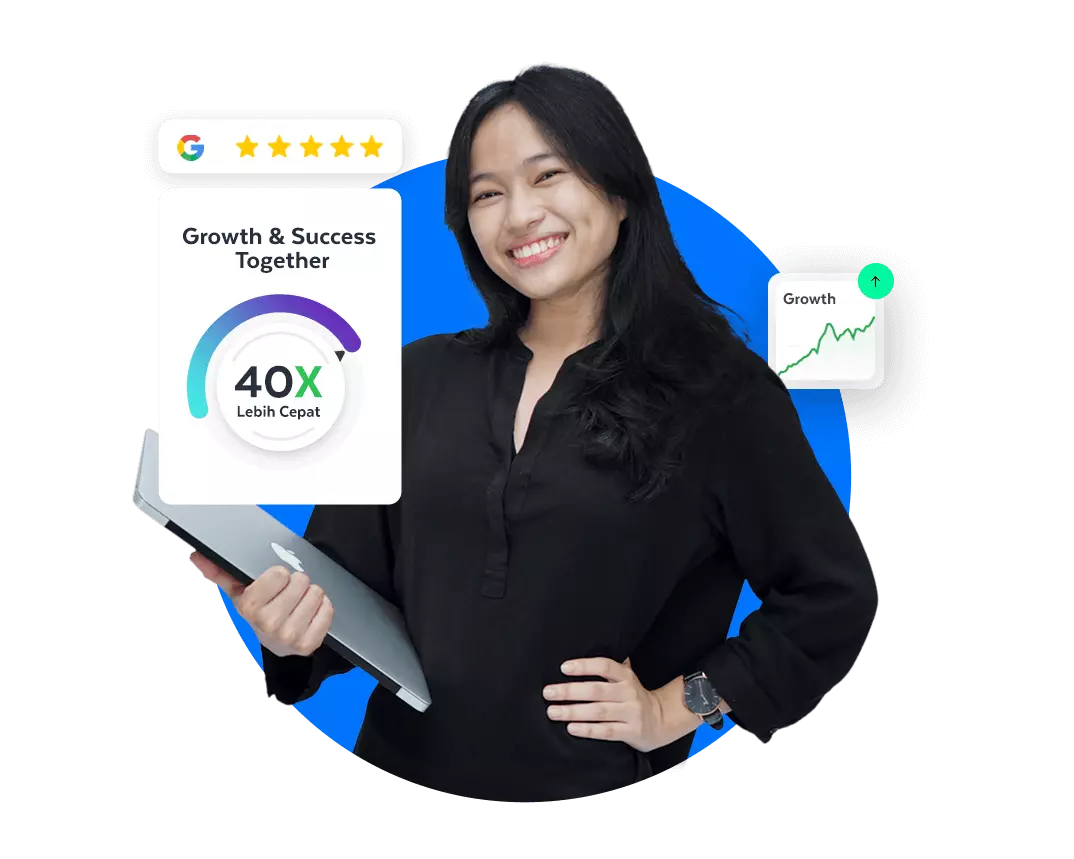
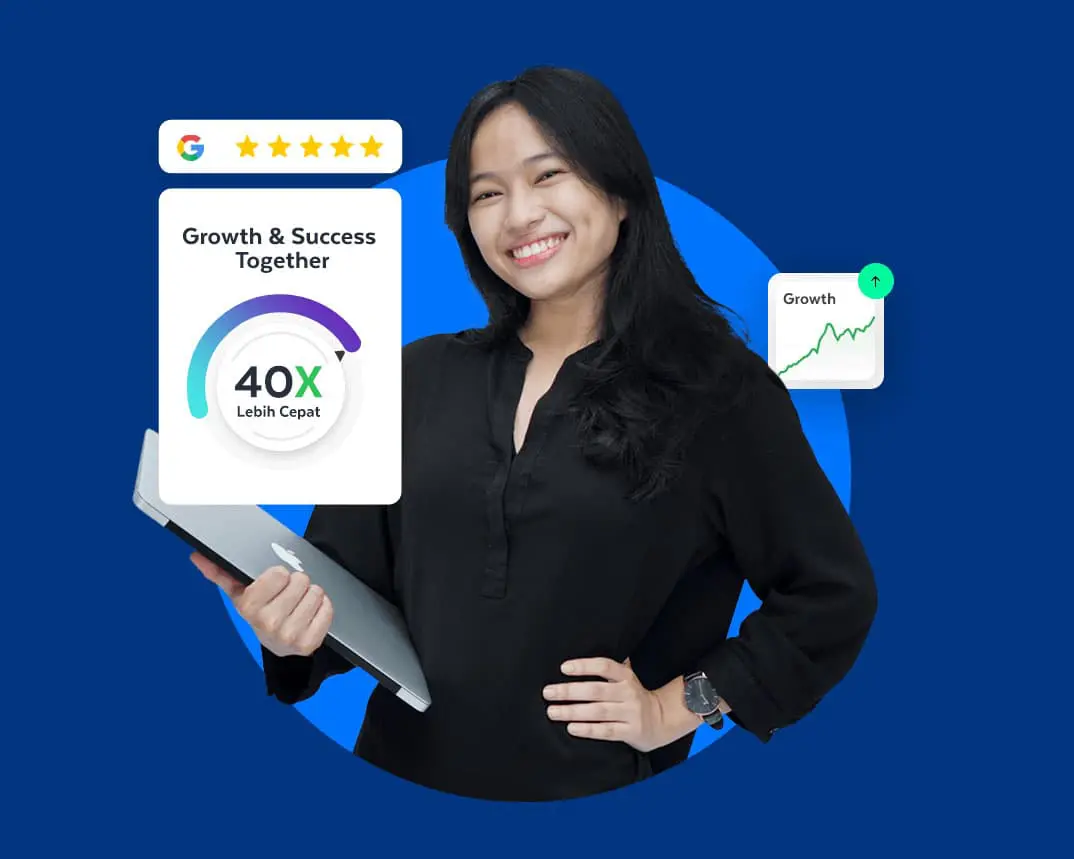
tambah webp

diff --git a/dev/index.html b/dev/index.html
@@ -578,14 +578,11 @@
 								</style>
 								<div class="">24</div>
 							</div>
-							<!-- <picture>
-							
-							<source srcset="assets/img/banner-juli-1-min.webp" type="image/webp">
-							<img src="assets/img/assets/img/banner-juli-1-min.png" alt="idwebhost-web-hosting-terbaik"
-								class="mx-auto d-flex img-fluid " width="1074" height="859" id="hero-image">
-						</picture> -->
-							<!-- perubahan gambar september 22 -->
-							<img src="assets/img/banner-juli-1-mini.jpg" alt="idwebhost-web-hosting-terbaik" class="mx-auto d-flex img-fluid" width="740" height="592" id="hero-image" />
+							<picture>
+								<source srcset="assets/img/banner-juli-1-min.webp" type="image/webp" />
+								<source srcset="assets/img/banner-juli-1-mini.jpg" type="image/jpeg">
+								<img src="assets/img/banner-juli-1-mini.jpg" alt="idwebhost-web-hosting-terbaik" class="mx-auto d-flex img-fluid" width="740" height="592" id="hero-image" />
+							</picture>
 						</div>
 					</div>
 				</div>
@@ -1519,7 +1516,7 @@
 								<h3 class="mb-2 font-weight-bold h6 position-relative to-btn">
 									Layanan Hosting
 									<!-- tambahan button di setiap dalam h3 pada footer -->
-									<button class="ml-auto btn-sm stretched-link btn d-sm-none has-plus"  data-toggle="collapse" aria-label="collapse" data-target="#exp-layanan-hosting" aria-expanded="false" aria-controls="exp-layanan-hosting"></button>
+									<button class="ml-auto btn-sm stretched-link btn d-sm-none has-plus" data-toggle="collapse" aria-label="collapse" data-target="#exp-layanan-hosting" aria-expanded="false" aria-controls="exp-layanan-hosting"></button>
 								</h3>
 								<!-- tambahan class collapse d-sm-block dan id sesuai button diatasnya -->
 								<ul class="list-unstyled lh-2 collapse d-sm-block" id="exp-layanan-hosting">
@@ -1537,7 +1534,7 @@
 								</ul>
 								<h3 class="mb-2 font-weight-bold h6 position-relative to-btn">
 									Kemitraan
-									<button class="ml-auto btn-sm stretched-link btn d-sm-none has-plus"  data-toggle="collapse" aria-label="collapse" data-target="#exp-kemitraan" aria-expanded="false" aria-controls="exp-kemitraan"></button>
+									<button class="ml-auto btn-sm stretched-link btn d-sm-none has-plus" data-toggle="collapse" aria-label="collapse" data-target="#exp-kemitraan" aria-expanded="false" aria-controls="exp-kemitraan"></button>
 								</h3>
 								<ul class="list-unstyled lh-2 collapse d-sm-block" id="exp-kemitraan">
 									<li><a href="afilliasi.html" class="text-muted">Program Afilliasi</a></li>
@@ -1546,7 +1543,7 @@
 							<div class="col-lg-3 col-md-3">
 								<h3 class="mb-2 font-weight-bold h6 position-relative to-btn">
 									Layanan Domain
-									<button class="ml-auto btn-sm stretched-link btn d-sm-none has-plus"  data-toggle="collapse" aria-label="collapse" data-target="#exp-layanan-domain" aria-expanded="false" aria-controls="exp-layanan-domain"></button>
+									<button class="ml-auto btn-sm stretched-link btn d-sm-none has-plus" data-toggle="collapse" aria-label="collapse" data-target="#exp-layanan-domain" aria-expanded="false" aria-controls="exp-layanan-domain"></button>
 								</h3>
 								<ul class="list-unstyled lh-2 collapse d-sm-block" id="exp-layanan-domain">
 									<li><a href=" domain-murah.html" class="text-muted">Domain Murah</a></li>
@@ -1556,7 +1553,7 @@
 								</ul>
 								<h3 class="mb-2 font-weight-bold h6 position-relative to-btn">
 									Informasi
-									<button class="ml-auto btn-sm stretched-link btn d-sm-none has-plus"  data-toggle="collapse" aria-label="collapse" data-target="#exp-informasi" aria-expanded="false" aria-controls="exp-informasi"></button>
+									<button class="ml-auto btn-sm stretched-link btn d-sm-none has-plus" data-toggle="collapse" aria-label="collapse" data-target="#exp-informasi" aria-expanded="false" aria-controls="exp-informasi"></button>
 								</h3>
 								<ul class="list-unstyled lh-2 collapse d-sm-block" id="exp-informasi">
 									<li><a href="tutorial.html" class="text-muted">Tutorial</a></li>
@@ -1572,7 +1569,7 @@
 							<div class="col-lg-2 col-md-3">
 								<h3 class="mb-2 font-weight-bold h6 position-relative to-btn">
 									Customer
-									<button class="ml-auto btn-sm stretched-link btn d-sm-none has-plus"  data-toggle="collapse" aria-label="collapse" data-target="#exp-customer"  aria-expanded="false" aria-controls="exp-customer"></button>
+									<button class="ml-auto btn-sm stretched-link btn d-sm-none has-plus" data-toggle="collapse" aria-label="collapse" data-target="#exp-customer" aria-expanded="false" aria-controls="exp-customer"></button>
 								</h3>
 								<ul class="list-unstyled lh-2 collapse d-sm-block" id="exp-customer">
 									<li><a href="https://member.idwebhost.com" class="text-muted">Login</a></li>
@@ -1584,7 +1581,7 @@
 								</ul>
 								<h3 class="mb-2 font-weight-bold h6 position-relative to-btn">
 									Company
-									<button class="ml-auto btn-sm stretched-link btn d-sm-none has-plus"  data-toggle="collapse"aria-label="collapse"  data-target="#exp-company"  aria-expanded="false" aria-controls="exp-company"></button>
+									<button class="ml-auto btn-sm stretched-link btn d-sm-none has-plus" data-toggle="collapse" aria-label="collapse" data-target="#exp-company" aria-expanded="false" aria-controls="exp-company"></button>
 								</h3>
 								<ul class="list-unstyled lh-2 collapse d-sm-block" id="exp-company">
 									<li><a href="review.html" class="text-muted">Review Pelanggan</a></li>
@@ -1660,83 +1657,52 @@
 				</section>
 			</div>
 		</footer>
-		
-<!-- backup popup bisa dicek di popup.html -->
-	<div class="modal fade" id="popup-hosting" tabindex="-1" aria-labelledby="exampleModalLabel" aria-hidden="true">
-		<div class="modal-dialog modal-dialog-centered " style="width: 100%; max-width: 600px;">
-			<div class="border-0 modal-content bg-primary " style="background: linear-gradient(180deg, #bc1123, #72040d);">
-				<div class="bg-transparent border-0 modal-header">
-					<a class="" href="index.html">
-						<img loading="lazy" src="assets/img/logo-idwebhost-negative.svg" alt="idwebhost-web-hosting-terbaik"
-							width="100" height="26">
-					</a>
-					<button type="button" class="close" data-dismiss="modal" aria-label="Close">
-						<span aria-hidden="true">&times;</span>
-					</button>
-				</div>
-				<div class="overflow-hidden modal-body pb-md-5 px-md-5 bg-model" style="background: url('assets/img/popup/banner-imlek.png'
-								); background-repeat: no-repeat; background-position: right bottom;">
 
-					<p class="text-center text-white h2 font-weight-bold">
-						Bikin Website Impian <br>
-						Bisnis Makin Cuan
-					</p>
-					<p class="mb-4 text-center text-white" style="font-size: 14px; ">Uptime 99,9% — Garansi 30 Hari Uang Kembali — CS 24/7</p>
-					<div class="row">
-						<div class="col-sm-7">
-							<div class="p-4 text-center shadow row no-gutters align-items-center"
-								style="
-background: rgb(255, 200, 5);
-border-radius: 16px;
-box-shadow: 0 4px 30px rgba(0, 0, 0, 0.1);
--webkit-backdrop-filter: blur(8.6px);
-border-radius: 15px;
-border-radius: 50%;
-width: 250px;
-height: 250px;
-								">
-								<img src="assets/img/popup/oriental.png" alt="idwebhost-web-hosting-terbaik" style="
-								position: absolute;
-width: 76px;
-left: 23px;
-transform: rotate(50deg);
-bottom: 49px;">
-								<div class="mt-2 mb-0 col-12">
-									<h2 class="mb-2 h4 font-weight-bold ">Hosting 5GB
-									</h2>
-									<span class="badge badge-danger rounded-pill"> + </span> <span
-										class="border-info badge">
-										Gratis 2 Domain
-									</span> <br>
-									<span class="badge badge-danger rounded-pill"> + </span> <span
-										class="border-info badge">
-										Gratis SSL
-									</span>
+		<!-- backup popup bisa dicek di popup.html -->
+		<div class="modal fade" id="popup-hosting" tabindex="-1" aria-labelledby="exampleModalLabel" aria-hidden="true">
+			<div class="modal-dialog modal-dialog-centered" style="width: 100%; max-width: 600px">
+				<div class="border-0 modal-content bg-primary" style="background: linear-gradient(180deg, #bc1123, #72040d)">
+					<div class="bg-transparent border-0 modal-header">
+						<a class="" href="index.html">
+							<img loading="lazy" src="assets/img/logo-idwebhost-negative.svg" alt="idwebhost-web-hosting-terbaik" width="100" height="26" />
+						</a>
+						<button type="button" class="close" data-dismiss="modal" aria-label="Close">
+							<span aria-hidden="true">&times;</span>
+						</button>
+					</div>
+					<div class="overflow-hidden modal-body pb-md-5 px-md-5 bg-model" style="background: url('assets/img/popup/banner-imlek.png'); background-repeat: no-repeat; background-position: right bottom">
+						<p class="text-center text-white h2 font-weight-bold">
+							Bikin Website Impian <br />
+							Bisnis Makin Cuan
+						</p>
+						<p class="mb-4 text-center text-white" style="font-size: 14px">Uptime 99,9% — Garansi 30 Hari Uang Kembali — CS 24/7</p>
+						<div class="row">
+							<div class="col-sm-7">
+								<div class="p-4 text-center shadow row no-gutters align-items-center" style="background: rgb(255, 200, 5); border-radius: 16px; box-shadow: 0 4px 30px rgba(0, 0, 0, 0.1); -webkit-backdrop-filter: blur(8.6px); border-radius: 15px; border-radius: 50%; width: 250px; height: 250px">
+									<img src="assets/img/popup/oriental.png" alt="idwebhost-web-hosting-terbaik" style="position: absolute; width: 76px; left: 23px; transform: rotate(50deg); bottom: 49px" />
+									<div class="mt-2 mb-0 col-12">
+										<h2 class="mb-2 h4 font-weight-bold">Hosting 5GB</h2>
+										<span class="badge badge-danger rounded-pill"> + </span> <span class="border-info badge"> Gratis 2 Domain </span> <br />
+										<span class="badge badge-danger rounded-pill"> + </span> <span class="border-info badge"> Gratis SSL </span>
+									</div>
+									<div class="col-12">
+										<span class="font-weight-bold">Diskon Up To </span>
+										<h2 class="my-0 h1 font-weight-bold">68%</h2>
+									</div>
 								</div>
-								<div class="col-12">
-									<span class="font-weight-bold">Diskon Up To </span>
-									<h2 class="my-0 h1 font-weight-bold">
-										68%
-									</h2>
-								</div>
-
 							</div>
 						</div>
-					</div>
-					<div class="row">
-						<div class="col-auto mt-4">
-							<a href="https://idwebhost.com/beli-hosting-sekarang/97">
-								<button type="button"
-									class="mt-4 mr-auto border-0 shadow-lg btn badge-success font btn-lg">
-									Order Sekarang
-								</button>
-							</a>
+						<div class="row">
+							<div class="col-auto mt-4">
+								<a href="https://idwebhost.com/beli-hosting-sekarang/97">
+									<button type="button" class="mt-4 mr-auto border-0 shadow-lg btn badge-success font btn-lg">Order Sekarang</button>
+								</a>
+							</div>
 						</div>
 					</div>
 				</div>
 			</div>
 		</div>
-	</div> 
 
 		<a href="https://wa.me/6281212227730" target="_blank" class="shadow d-block d-md-none btn-wa fade show" aria-label="Chat WA" role="alert" rel="noopener">
 			<svg xmlns="http://www.w3.org/2000/svg" width="24" height="24" viewBox="0 0 24 24" fill="#ffffff">
@@ -1930,19 +1896,19 @@ bottom: 49px;">
 		</script>
 		<script type="application/ld+json">
 			{
-			  "@context": "https://schema.org",
-			  "@type": "LocalBusiness",
-			  "address": {
-				"@type": "PostalAddress",
-				"addressLocality": "Indonesia",
-				"addressRegion": "Yogyakarta",
-				"streetAddress": "Jl. Perintis Kemerdekaan No. 33 Yogyakarta 55161"
-			  },
-			  "image": "https://idwebhost.com/themes/midnight/assets/img/logo-idwebhost.svg",
-			  "description": "IDwebhost penyedia layanan hosting murah No 1 Indonesia",
-			  "name": "IDwebhost",
-			  "telephone": "(0274) 415585",
-			  "priceRange": "IDR10900-300900"
+				"@context": "https://schema.org",
+				"@type": "LocalBusiness",
+				"address": {
+					"@type": "PostalAddress",
+					"addressLocality": "Indonesia",
+					"addressRegion": "Yogyakarta",
+					"streetAddress": "Jl. Perintis Kemerdekaan No. 33 Yogyakarta 55161"
+				},
+				"image": "https://idwebhost.com/themes/midnight/assets/img/logo-idwebhost.svg",
+				"description": "IDwebhost penyedia layanan hosting murah No 1 Indonesia",
+				"name": "IDwebhost",
+				"telephone": "(0274) 415585",
+				"priceRange": "IDR10900-300900"
 			}
 		</script>
 	</body>
